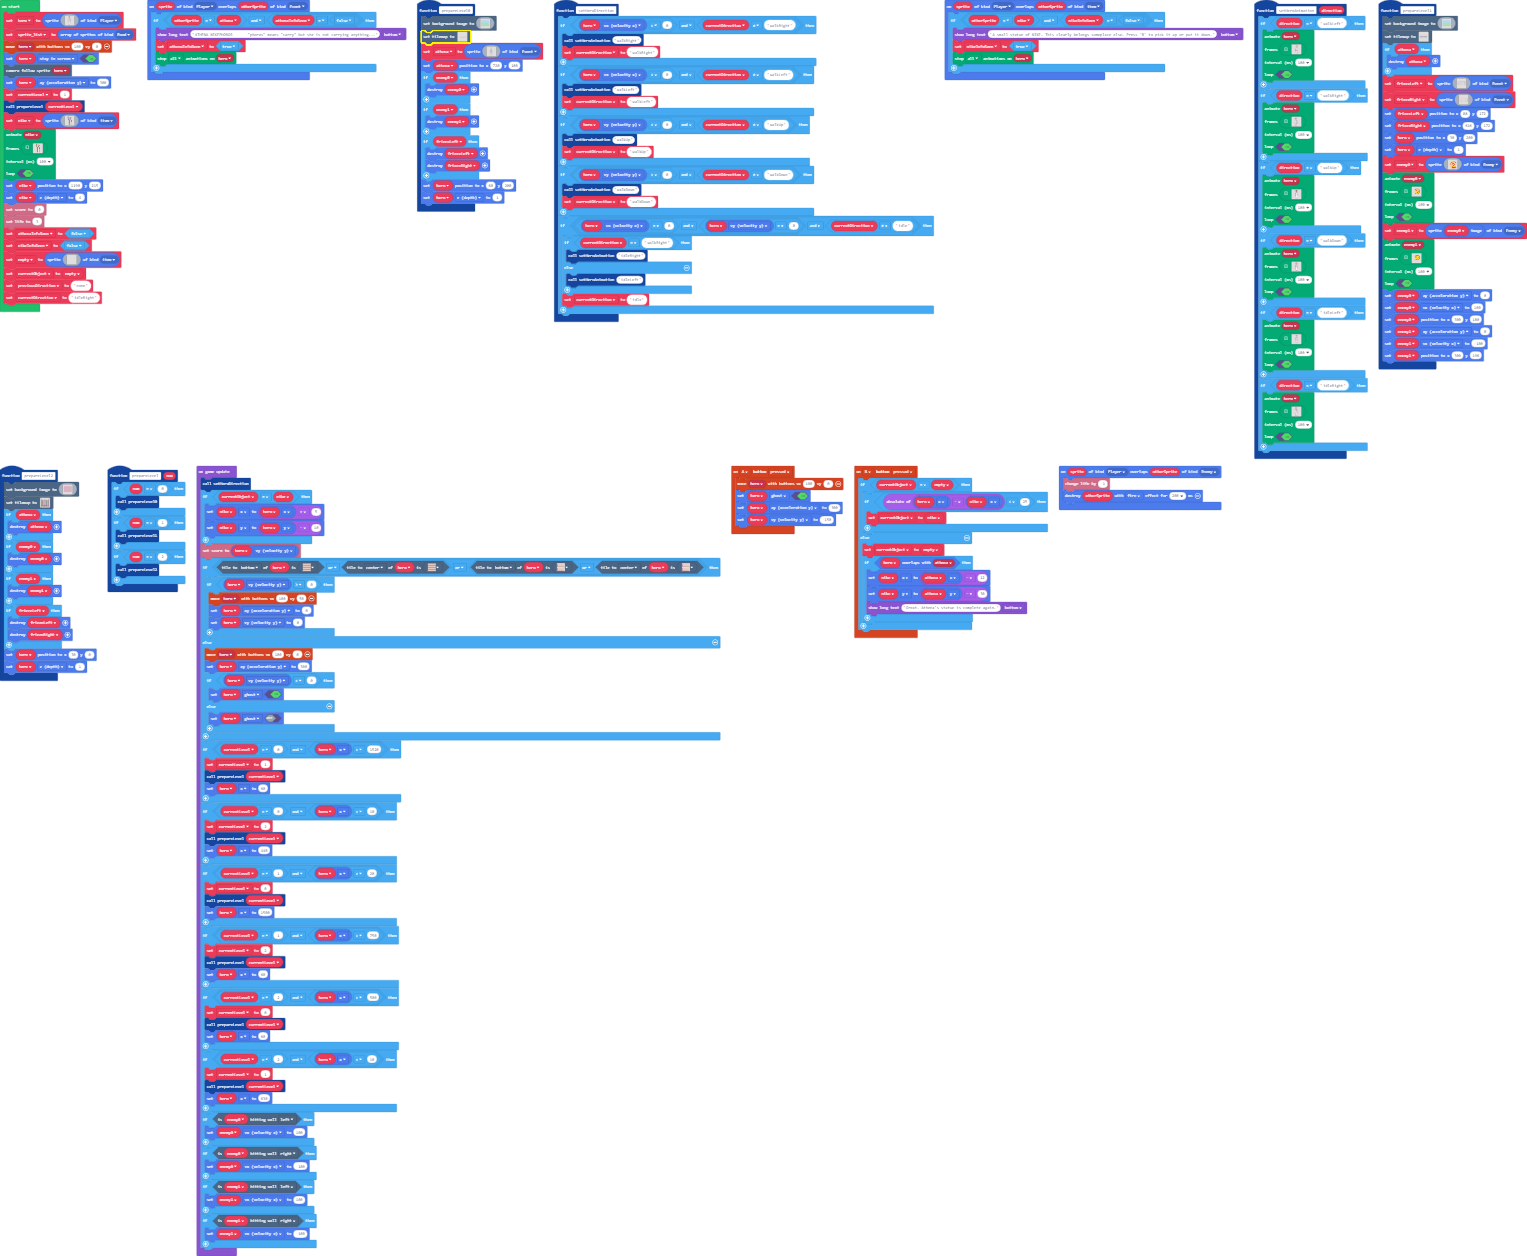
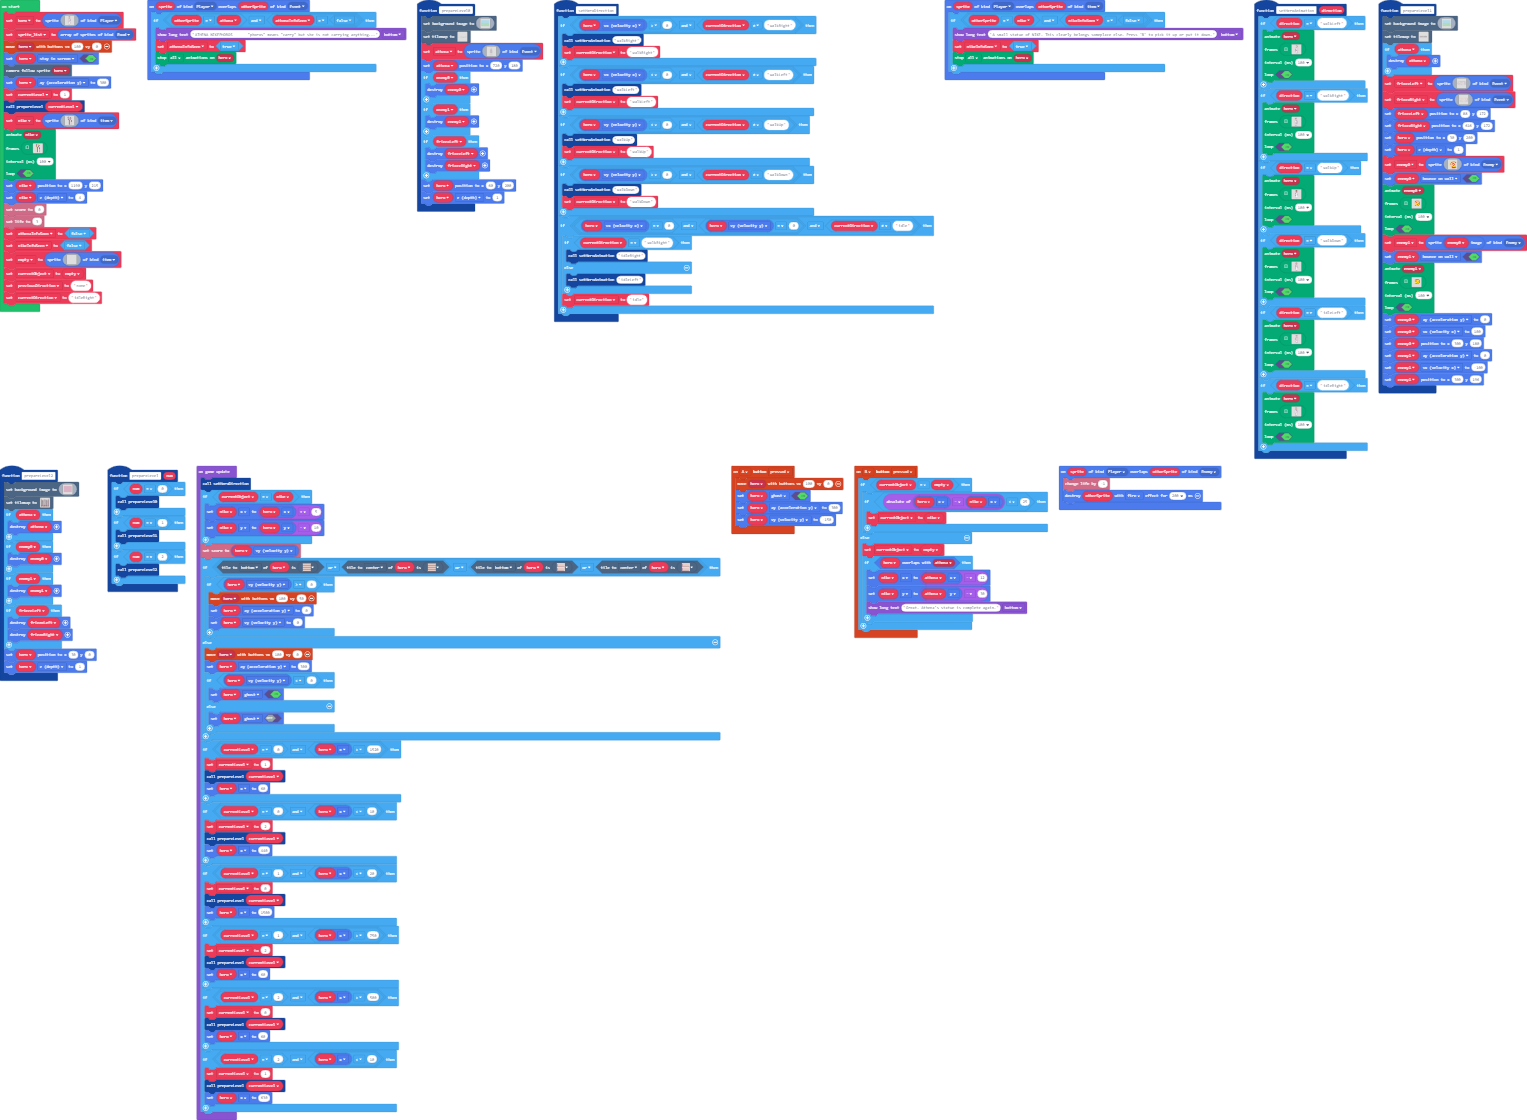
native bounce

Changed region(s): [[0.0, 0.0, 1.0, 1.0], [0.0, 0.0, 0.6156, 0.3125]]

diff --git a/main.ts b/main.ts
@@ -1655,7 +1655,7 @@ function prepareLevel0 () {
 7 7 7 7 7 7 7 7 7 7 7 7 7 7 7 7 7 7 7 7 7 7 7 7 7 7 7 7 7 7 7 7 7 7 7 7 7 7 7 7 7 7 7 7 7 7 7 7 7 7 7 7 7 7 7 7 7 7 7 7 7 7 7 7 7 7 7 7 7 7 7 7 7 7 7 7 7 7 7 7 7 7 7 7 7 7 7 7 7 7 7 7 7 7 7 7 7 7 7 7 7 7 7 7 7 7 7 7 7 7 7 7 7 7 7 7 7 7 7 7 7 7 7 7 7 7 7 7 7 7 7 7 7 7 7 7 7 7 7 7 7 7 7 7 7 7 7 7 7 7 7 7 7 7 7 7 7 7 7 7 
 `)
     tiles.setTilemap(tiles.createTilemap(
[2 lines of base64/hex data omitted]
             img`
 . . . . . . . . . . . . . . . . . . . . . . . . . . . . . . . . . . . . . . . . . . . . . . . . . . . . . . . . . . . . . . . . . . . . . . . . . . . . . . . . . . . . . . . . . . . . . . . . 
 . . . . . . . . . . . . . . . . . . . . . . . . . . . . . . . . . . . . . . . . . . . . . . . . . . . . . . . . . . . . . . . . . . . . . . . . . . . . . . . . . . . . . . . . . . . . . . . . 
@@ -1665,7 +1665,7 @@ function prepareLevel0 () {
 . . . . . . . . . . . . . . . . . . . . . . . . . . . . . . . . . . . . . . . . . . . . . . . . . . . . . . . . . . . . . . . . . . . . . . . . . . . . . . . . . . . . . . . . . . . . . . . . 
 . . . . . . . . . . . . . . . . . . . . . . . . . . . . . . . . . . . . . . . . . . . . . . . . . . . . . . . . . . . . . . . . . . . . . . . . . . . . . . . . . . . . . . . . . . . . . . . . 
 . . . . . . . . . . . . . . . . . . . . . . . . . . . . . . . . . . . . . . . . . . . . . . . . . . . . . . . . . . . . . . . . . . . . . . . . . . . . . . . . . . . . . . . . . . . . . . . . 
-. . . . . . . . . . . . . . . . . . . . . . . . . . 2 2 2 2 2 2 2 2 2 2 2 . . . . . . . . . . . . . . . . . . . . . . . . . . . . . . . . . . . . . . . . . . . . . . . . . . . . 2 2 2 2 2 2 2 
+. . . . . . . . . . . . . . . . . . . . . . . . . . . . 2 2 2 2 2 2 2 2 2 2 2 . . . . . . . . . . . . . . . . . . . . . . . . . . . . . . . . . . . . . . . . . . . . . . . . . . 2 2 2 2 2 2 2 
 . . . . . . . . . . . . . . . 2 . . . . . . . . . . . . . . . . . . . . . . . . . . . . 2 2 . . . . . . . . . . . . . . . . . . . . . . . . . . . . . . 2 2 2 . . . 2 2 2 . . . . . . . . . . . 
 . . . . . . . . . . . . . . . 2 . . . . . . . . . . . . . . . . . . . . . . . . . . . . . . . . . . 2 2 2 2 2 2 2 2 2 2 2 2 2 2 2 2 2 2 2 2 2 2 . . . . . . . . . . . . . . . . . . . . . . . . 
 . . . . . . . . . . . . . . . 2 . . . . . . . . . . . . . . . . . . . . . . . . . . . . . . . . . . . . . . . . . . . . . . . . . . . . . . . . . . . . . . . . . . . . . . . . . . . . . . . . 
@@ -2497,6 +2497,7 @@ c c c c c c c c c c c c c c c c c c c c c c c c c c c c c 1 c c c c c c c c c c 
 . . . . . . 2 2 2 2 2 2 2 2 2 . 
 . . . . . . . 2 2 2 2 2 . . . . 
 `, SpriteKind.Enemy)
+    enemy0.setFlag(SpriteFlag.BounceOnWall, true)
     animation.runImageAnimation(
     enemy0,
     [img`
@@ -2538,6 +2539,7 @@ c c c c c c c c c c c c c c c c c c c c c c c c c c c c c 1 c c c c c c c c c c 
     true
     )
     enemy1 = sprites.create(enemy0.image, SpriteKind.Enemy)
+    enemy1.setFlag(SpriteFlag.BounceOnWall, true)
     animation.runImageAnimation(
     enemy1,
     [img`
@@ -3031,17 +3033,5 @@ game.onUpdate(function () {
         currentLevel = 1
         prepareLevel(currentLevel)
         hero.x = 630
-    }
-    if (enemy0.isHittingTile(CollisionDirection.Left)) {
-        enemy0.vx = 100
-    }
-    if (enemy0.isHittingTile(CollisionDirection.Right)) {
-        enemy0.vx = -100
-    }
-    if (enemy1.isHittingTile(CollisionDirection.Left)) {
-        enemy1.vx = 100
-    }
-    if (enemy1.isHittingTile(CollisionDirection.Right)) {
-        enemy1.vx = -100
     }
 })
